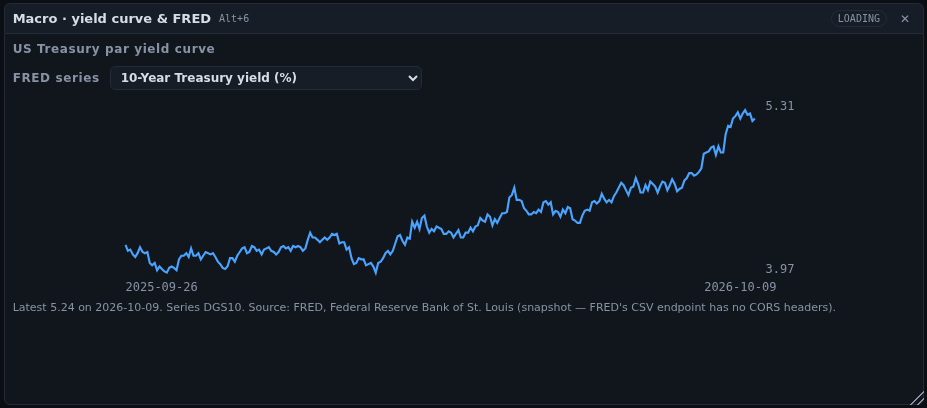
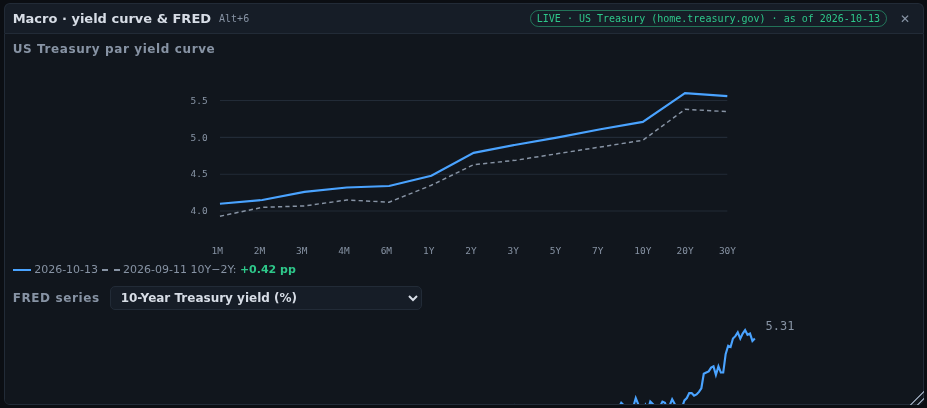
fix(ui): taller macro panel, CoinGecko attribution, gallery waits for loaded badges
Claude-Session: https://claude.ai/code/session_01MjA5gve46Q1YXgHSypNzpr

diff --git a/src/styles.css b/src/styles.css
@@ -41,7 +41,7 @@ select, input { background: var(--panel2); color: var(--text); border: 1px solid
 .kv { display: grid; grid-template-columns: auto 1fr; gap: 3px 14px; margin: 8px 0 0; } .kv dt { color: var(--muted); } .kv dd { margin: 0; text-align: right; font-variant-numeric: tabular-nums; }
 .heat { position: relative; height: calc(100% - 22px); min-height: 160px; } .h-cell, .h-sector { position: absolute; } .h-sector { font-size: 10px; color: var(--muted); text-transform: uppercase; letter-spacing: .06em; }
 .h-cell { border: 0; border-radius: 3px; color: #fff; display: flex; flex-direction: column; align-items: center; justify-content: center; font: 11px ui-monospace, monospace; cursor: pointer; overflow: hidden; padding: 0; } .h-cell b { font-size: 12px; } .h-cell:hover { outline: 1px solid var(--text); }
-.linechart { width: 100%; height: auto; max-height: 200px; } .linechart .axis, .axis { fill: var(--muted); font: 9px ui-monospace, monospace; } .gridline { stroke: var(--line); stroke-width: 1; }
+.linechart { width: 100%; height: auto; max-height: 180px; } .linechart .axis, .axis { fill: var(--muted); font: 9px ui-monospace, monospace; } .gridline { stroke: var(--line); stroke-width: 1; }
 h3 { margin: 10px 0 4px; font-size: 12px; color: var(--muted); font-weight: 600; text-transform: uppercase; letter-spacing: .05em; display: flex; gap: 10px; align-items: center; text-transform: none; } h3:first-child { margin-top: 0; }
 .legend { font-size: 11px; color: var(--muted); } .sw { display: inline-block; width: 18px; border-top: 2px solid var(--accent); vertical-align: middle; } .sw.dash { border-top: 2px dashed var(--muted); }
 .news { list-style: none; margin: 0; padding: 0; } .news li { padding: 6px 0; border-top: 1px solid var(--line); } .news a { color: var(--text); text-decoration: none; } .news a:hover { color: var(--accent); text-decoration: underline; } .meta { color: var(--muted); font-size: 11px; margin-top: 2px; }

diff --git a/index.html b/index.html
@@ -19,7 +19,7 @@
   </header>
   <div id="workspace"></div>
   <footer class="foot">
-    <p><b>Demo / educational only. Not investment advice.</b> Data is delayed, indicative or end-of-day and may be wrong or stale; each panel's badge shows its source, as-of time and whether it is live, cached or a snapshot. Equity prices are end-of-day snapshots, never real-time; if a snapshot says SIMULATED it is not market data. Not affiliated with, endorsed by or sponsored by any data provider. Data from CoinGecko, Binance public market data, Frankfurter/ECB, US Treasury, FRED, Federal Reserve, ECB and SEC — see the README for terms.</p>
+    <p><b>Demo / educational only. Not investment advice.</b> Data is delayed, indicative or end-of-day and may be wrong or stale; each panel's badge shows its source, as-of time and whether it is live, cached or a snapshot. Equity prices are end-of-day snapshots, never real-time; if a snapshot says SIMULATED it is not market data. Not affiliated with, endorsed by or sponsored by any data provider. Crypto prices powered by CoinGecko; also Binance public market data, Frankfurter/ECB, US Treasury, FRED, Federal Reserve, ECB and SEC — see the README for terms.</p>
     <p>Shortcuts: <kbd>Ctrl/⌘ K</kbd> palette · <kbd>Alt 1–9</kbd> jump to panel · drag headers to move, corner to resize (or focus a header, arrows move, Shift+arrows resize).</p>
   </footer>
   <script type="module" src="/src/main.ts"></script>

diff --git a/src/widgets/info.ts b/src/widgets/info.ts
@@ -20,7 +20,7 @@ function lineSvg(xs: string[], ys: number[], w = 520, hgt = 150): SVGElement {
 }
 
 export const macroWidget: WidgetDef = {
-  type: 'macro', title: 'Macro · yield curve & FRED', w: 7, h: 12,
+  type: 'macro', title: 'Macro · yield curve & FRED', w: 7, h: 14,
   mount(body, ctx) {
     const curveBox = h('div', { class: 'curve' });
     const fredBox = h('div', { class: 'fred' });
